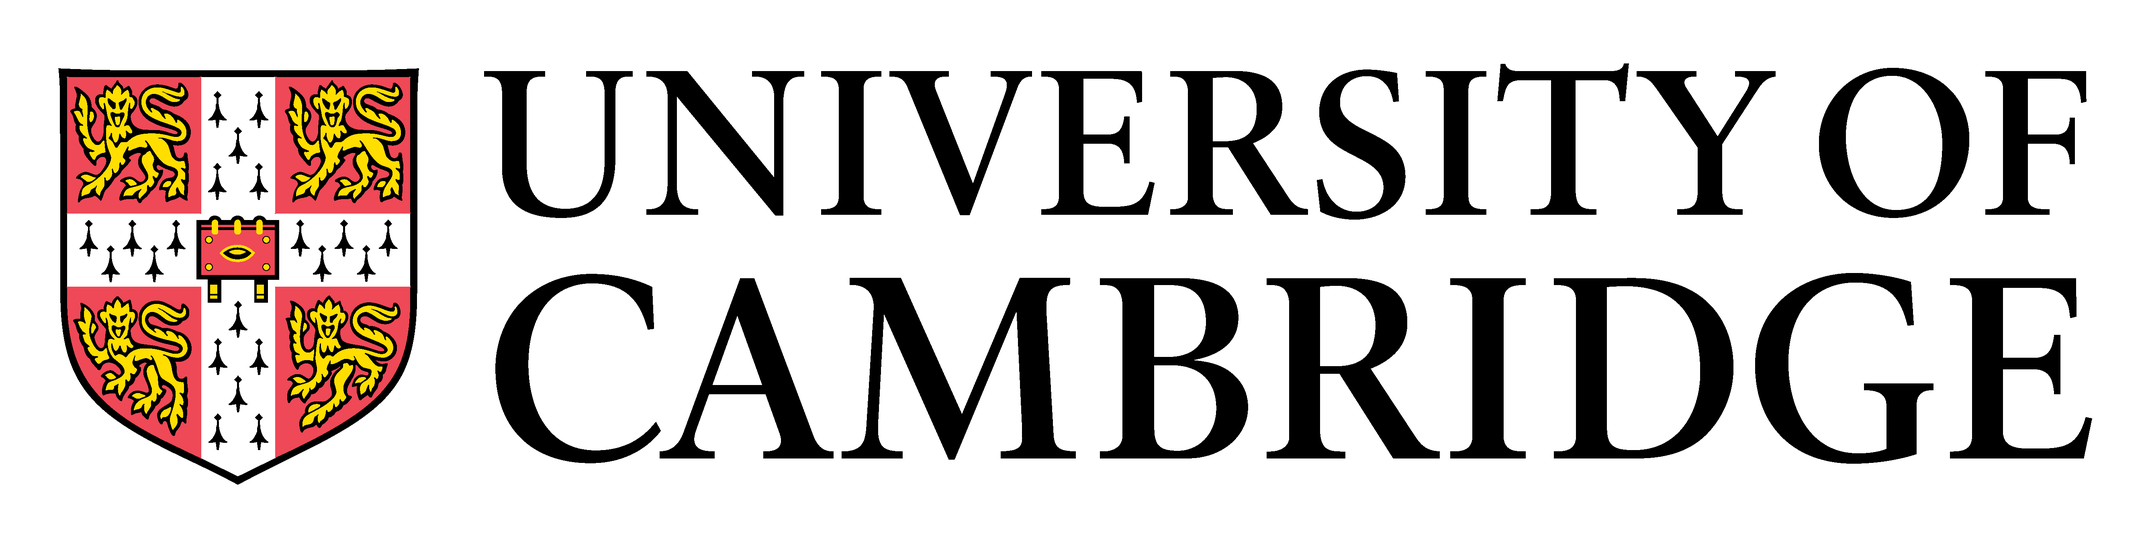
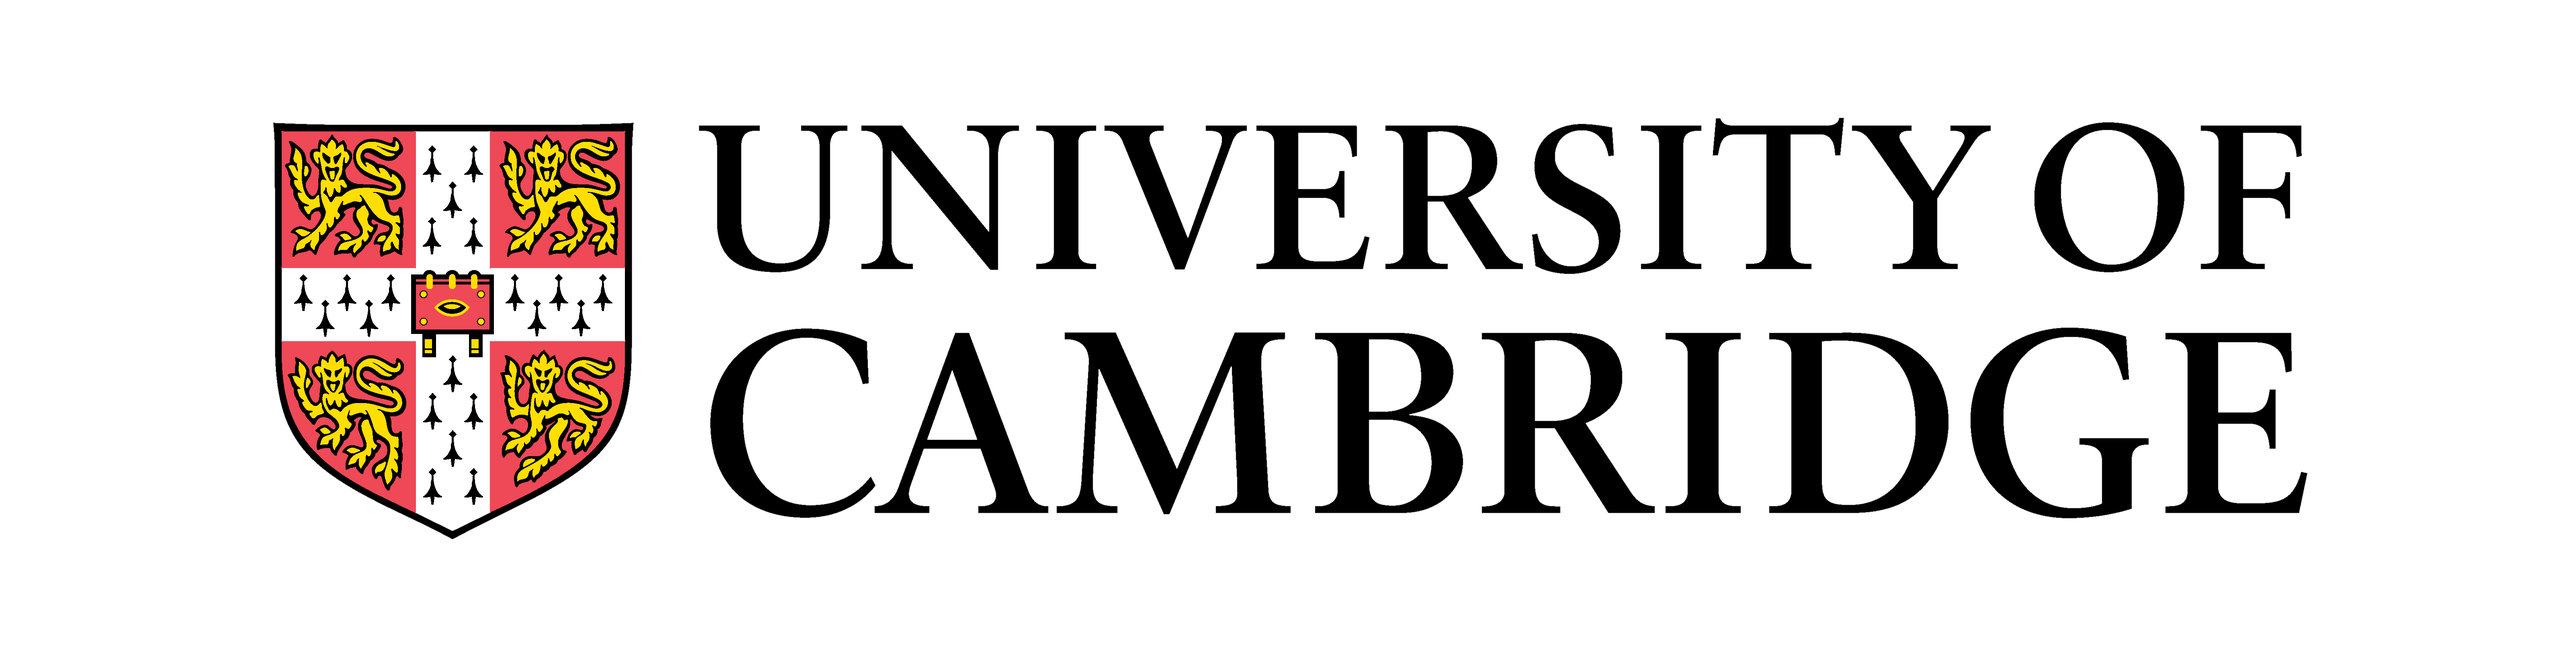
Add Router to separate education and positions pages

Changed region(s): [[0.0, 0.1244, 0.9944, 0.9022]]

diff --git a/src/components/Education.js b/src/components/Education.js
@@ -1,6 +1,6 @@
 import React, { Component, PropTypes } from 'react';
 
-export default class Highlight extends Component {
+export default class Education extends Component {
   constructor(props, context) {
     super(props, context);
     this.state = {
@@ -9,13 +9,12 @@ export default class Highlight extends Component {
   }
 
   render() {
-    const { highlight } = this.props;
-    const highlightId = 'highlight-info-' + highlight.title.replace(/\s/g, '');
-    const highlightSeeMoreId = 'highlight-see-more-' + highlight.title.replace(/\s/g, '');
+    const { education } = this.props;
+    const educationId = 'education-info-' + education.title.replace(/\s/g, '');
+    const educationSeeMoreId = 'education-see-more-' + education.title.replace(/\s/g, '');
 
     let onExpandClick = () => {
-      let body = document.getElementById(highlightId);
-      let toggle = document.getElementById(highlightSeeMoreId);
+      let body = document.getElementById(educationId);
       switch (this.state.open) {
          case true:
            body.style.display = 'none';
@@ -34,10 +33,10 @@ export default class Highlight extends Component {
 
     return (
         <div className="position-container">
-          {(highlight.image != '') ?
+          {(education.image != '') ?
           <div className="image-container" >
-            <div className="highlight-image-container" style={{'display':'flex', 'justifyContent':'center'}}>
-              <img src={highlight.image} style={{'maxHeight': '150px', 'marginTop':'20px' }}/> 
+            <div className="screenshot-container">
+              <img src={education.image} /> 
             </div>
           </div>
           : null}
@@ -45,24 +44,24 @@ export default class Highlight extends Component {
             <div className="position-info-main">
             <div onClick={onExpandClick} style={{'cursor': 'pointer','display': 'flex', 'flexDirection': 'row', 'alignItems':'center'}}>
               <h3>
-                {highlight.title}
+                {education.title}
               </h3>
               <i style={{'fontSize': '20px', 'marginLeft': 'auto'}} className={this.state.open ? "more-less glyphicon glyphicon-minus" : "more-less glyphicon glyphicon-plus"}> </i>
             </div>
-              {highlight.company != ''
-                ? <div> {highlight.company_url != '' 
-                  ? <a href={highlight.company_url} target="_blank"> {highlight.company} </a> 
-                  : highlight.company} 
+              {education.company != ''
+                ? <div> {education.company_url != '' 
+                  ? <a href={education.company_url} target="_blank"> {education.company} </a> 
+                  : education.company} 
                 </div> 
                 : null}
-              <div>{highlight.date}</div>
+              <div>{education.date}</div>
             </div>
-            <div className='position-info-body' id={highlightId}>
+            <div className='position-info-body' id={educationId}>
               <h3>Description</h3>
-              <div>{highlight.description}</div>
-              {(highlight.links.length != 0) ? <div><h3>Links</h3>
+              <div>{education.description}</div>
+              {(education.links.length != 0) ? <div><h3>Links</h3>
               <ul>
-              {Object.entries(highlight.links).map(([key,value]) => <li><a href={value}>{key}</a></li>)}</ul></div> : null}
+              {Object.entries(education.links).map(([key,value]) => <li><a href={value}>{key}</a></li>)}</ul></div> : null}
             </div>
           </div>
         </div>
@@ -70,6 +69,6 @@ export default class Highlight extends Component {
   }
 }
 
-Highlight.propTypes = {
-  highlight: PropTypes.object.isRequired
+Education.propTypes = {
+  education: PropTypes.object.isRequired
 };

diff --git a/src/containers/App.js b/src/containers/App.js
@@ -2,12 +2,13 @@ import React, { Component, PropTypes } from 'react';
 import { bindActionCreators } from 'redux';
 import { connect } from 'react-redux';
 import * as BenchmarkActions from '../actions/BenchmarkActions';
-import Position from '../components/Position';
 import Footer from '../components/Footer';
 import Header from '../components/Header';
 import Introduction from '../components/Introduction';
-import Highlight from '../components/Highlight';
 import { startTime } from '../index';
+import { Route } from 'react-router-dom';
+import PositionsContainer from './PositionsContainer';
+import EducationContainer from './EducationContainer';
 
 /**
  * It is common practice to have a 'Root' container/component require our main App (this one).
@@ -40,24 +41,16 @@ export class App extends Component {
   }
 
   render() {
-    const { positions, personalInfo, highlights } = this.props;
-    const positionEntries = positions.map((position, index) => <Position key={index} position={position} width={this.state.width}/> );
-    const highlightEntries = highlights.map((highlight, index) => <Highlight key={index} highlight={highlight} width={this.state.width} />);
+    const { positions, personalInfo, education } = this.props;
+    
+    
     // we can use ES6's object destructuring to effectively 'unpack' our props
     return (
       <div className="main-app-container">
         <Header personalInfo={personalInfo} />
-        <div> <Introduction personalInfo={personalInfo} width={this.state.width} /> </div>
-        <div className="flex-column-container">
-          <div className="highlights-container">
-            <h1>Highlights</h1>
-            {highlightEntries}
-          </div>
-          <div className="selected-positions">
-            <h1>Selected Positions</h1>
-            {positionEntries}
-          </div>
-        </div>
+        <Route exact path='/' render={() => <Introduction personalInfo={personalInfo} width={this.state.width} />}/>
+        <Route path='/positions' render={() => <PositionsContainer positions={positions} width={this.state.width}/>} />
+        <Route path='/education' render={() => <EducationContainer education={education}/>} />
         <Footer personalInfo={personalInfo} />
       </div>
     );
@@ -69,7 +62,7 @@ App.propTypes = {
   actions: PropTypes.object.isRequired,
   benchmark: PropTypes.number.isRequired,
   personalInfo: PropTypes.object.isRequired,
-  highlights: PropTypes.array.isRequired
+  education: PropTypes.array.isRequired
 };
 
 /**
@@ -82,7 +75,7 @@ function mapStateToProps(state) {
     positions: state.positions,
     benchmark: state.benchmark,
     personalInfo: state.personalInfo,
-    highlights: state.highlights
+    education: state.education
   };
 }
 

diff --git a/src/components/Header.js b/src/components/Header.js
@@ -23,33 +23,32 @@ export default class Header extends Component {
   render() {
     const { personalInfo } = this.props;
     return (
-          <nav className="navbar navbar-fixed-top navbar-inner header">
-
-            <div className="container">
-              <div className="navbar-brand">
-                <a href="#" > {personalInfo.name} </a>
-              </div>
-              { this.state.width >= 320 ?
-              <ul className="nav navbar-nav pull-right">
-                <li>
-                  <a href={personalInfo.resume} className="nav-link" target="_blank" style={{ lineHeight: 'normal' }}>
-                    <span>CV</span>
-                  </a>
-                </li>
-                <li>
-                  <a href={personalInfo.github} className="nav-link" target="_blank">
-                    <i className="fa fa-github icon"></i>
-                  </a>
-                </li>
-                <li>
-                  <a href={personalInfo.linkedIn} className="nav-link" target="_blank">
-                    <i className="fa fa-linkedin-square icon"></i>
-                  </a>
-                </li>
-                </ul>
-              : null}
-            </div>
-            </nav>
+      <nav className="navbar navbar-fixed-top navbar-inner header">
+        <div className="container">
+          <div className="navbar-brand">
+            <a href="/" > {personalInfo.name} </a>
+          </div>
+          { this.state.width >= 320 ?
+          <ul className="nav navbar-nav pull-right">
+            <li>
+              <a href={personalInfo.resume} className="nav-link" target="_blank" style={{ lineHeight: 'normal' }}>
+                <span>CV</span>
+              </a>
+            </li>
+            <li>
+              <a href={personalInfo.github} className="nav-link" target="_blank">
+                <i className="fa fa-github icon"></i>
+              </a>
+            </li>
+            <li>
+              <a href={personalInfo.linkedIn} className="nav-link" target="_blank">
+                <i className="fa fa-linkedin-square icon"></i>
+              </a>
+            </li>
+            </ul>
+          : null}
+        </div>
+      </nav>
     );
   }
 }

diff --git a/src/containers/PositionsContainer.js b/src/containers/PositionsContainer.js
@@ -1,0 +1,21 @@
+import React, { Component } from 'react';
+import Position from '../components/Position';
+
+export default class PositionsContainer extends Component {
+  constructor(props, context) {
+    super(props, context);
+  }
+
+  render() {
+    const positions = this.props.positions;
+    const width = this.props.width;
+    const positionEntries = positions.map((position, index) => <Position key={index} position={position} width={width}/> );
+
+    return (
+      <div className="selected-positions">
+        <h1>Selected Positions</h1>
+        {positionEntries}
+      </div>
+    )
+  }
+}

diff --git a/src/containers/EducationContainer.js b/src/containers/EducationContainer.js
@@ -1,0 +1,21 @@
+import React, { Component } from 'react';
+import Education from '../components/Education';
+
+export default class EducationContainer extends Component {
+  constructor(props, context) {
+    super(props, context);
+  }
+
+  render() {
+    const education = this.props.education;
+    const width = this.props.width;
+    const educationEntries = education.map((education, index) => <Education key={index} education={education} width={width} />);
+
+    return (
+      <div>
+        <h1>Education</h1>
+        {educationEntries}
+      </div>
+    )
+  }
+}

diff --git a/src/reducers/index.js b/src/reducers/index.js
@@ -3,7 +3,7 @@ import counter from './counter';
 import positions from './positions';
 import benchmark from './benchmark';
 import personalInfo from './personalInfo';
-import highlights from './highlights';
+import education from './education';
 
 /**
  * combineReducers is important to understand. As your app might grow in size
@@ -23,7 +23,7 @@ const rootReducer = combineReducers({
   positions,
   benchmark,
   personalInfo,
-  highlights
+  education
 });
 
 export default rootReducer;

diff --git a/src/containers/Root.dev.js b/src/containers/Root.dev.js
@@ -1,6 +1,6 @@
 import React, { Component } from 'react';
 import { Provider } from 'react-redux';
-import App from './App';
+import Router from './Router';
 import DevTools from './DevTools';
 
 /**
@@ -17,7 +17,7 @@ module.exports = class Root extends Component {
        */
       <Provider store={store}>
         <div>
-          <App />
+          <Router />
           {/* Being the dev version of our Root component, we include DevTools below */}
           <DevTools />
         </div>

diff --git a/src/styles/main.scss b/src/styles/main.scss
@@ -81,7 +81,7 @@ h3 {
   background-color: rgba(0,0,0,0);
 }
 
-.highlight-image-container {
+.education-image-container {
   margin-right: 4vw;
   height: auto;
   width: 100%;
@@ -297,13 +297,7 @@ ul.nav{
     flex-direction: column;
   } 
 }
-.highlights-container {
-  margin: 20px;
-  @media screen and (min-width: 770px) {
-    width: 35%;
-    max-width: 300px;
-  } 
-}
+
 .selected-positions {
   margin: 20px;
   @media screen and (min-width: 770px) {

diff --git a/src/containers/Root.prod.js b/src/containers/Root.prod.js
@@ -1,6 +1,6 @@
 import React, { Component } from 'react';
 import { Provider } from 'react-redux';
-import App from './App';
+import Router from './Router';
 
 /**
  * Component is exported for conditional usage in Root.js
@@ -15,7 +15,7 @@ module.exports = class Root extends Component {
        * calls in component hierarchy below.
        */
       <Provider store={store}>
-        <App />
+        <Router />
       </Provider>
     );
   }

diff --git a/src/data/education.js b/src/data/education.js
@@ -1,7 +1,7 @@
-const highlightsData = {
+const educationData = {
   data: [
     {
-      image: 'cambridgelogo.png',
+      image: 'cambridgebanner.png',
       date: '2015-2018',
       company: 'University of Cambridge',
       company_url: 'http://www.cl.cam.ac.uk/',
@@ -25,4 +25,4 @@ const highlightsData = {
     }
   ]
 }
-export { highlightsData };
+export { educationData };

diff --git a/src/components/Position.js b/src/components/Position.js
@@ -19,7 +19,6 @@ export default class Position extends Component {
 
     let onExpandClick = () => {
       let body = document.getElementById(positionId);
-      let toggle = document.getElementById(positionSeeMoreId);
       switch (this.state.open) {
          case true:
            body.style.display = 'none';

diff --git a/src/containers/Router.js b/src/containers/Router.js
@@ -1,0 +1,13 @@
+import React, { Component } from 'react';
+import { BrowserRouter } from 'react-router-dom';
+import App from './App';
+
+export default class Router extends Component {
+  render() {
+    return (
+    <BrowserRouter>
+      <App />
+    </BrowserRouter>
+    )
+  }
+}
